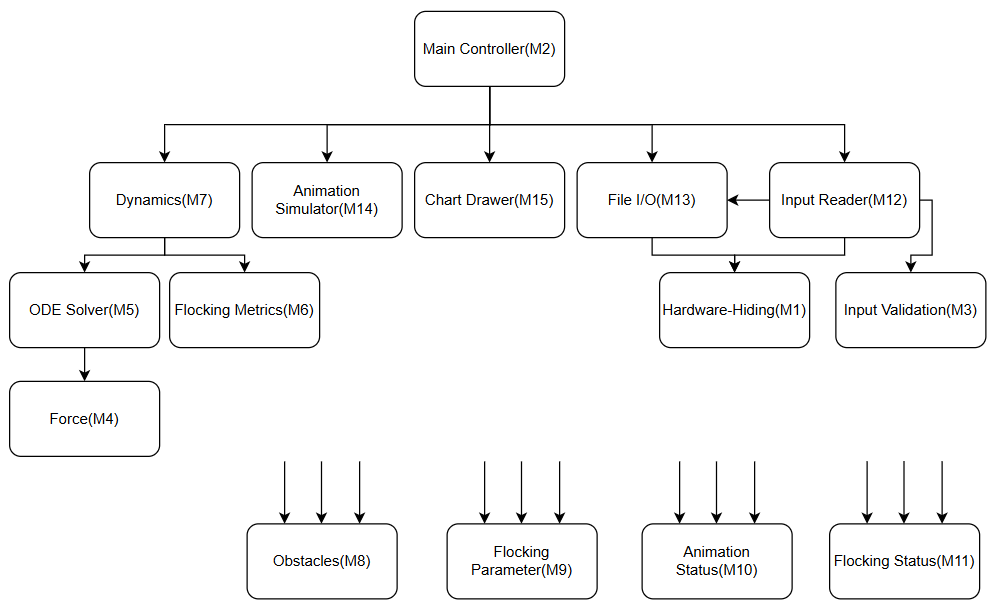
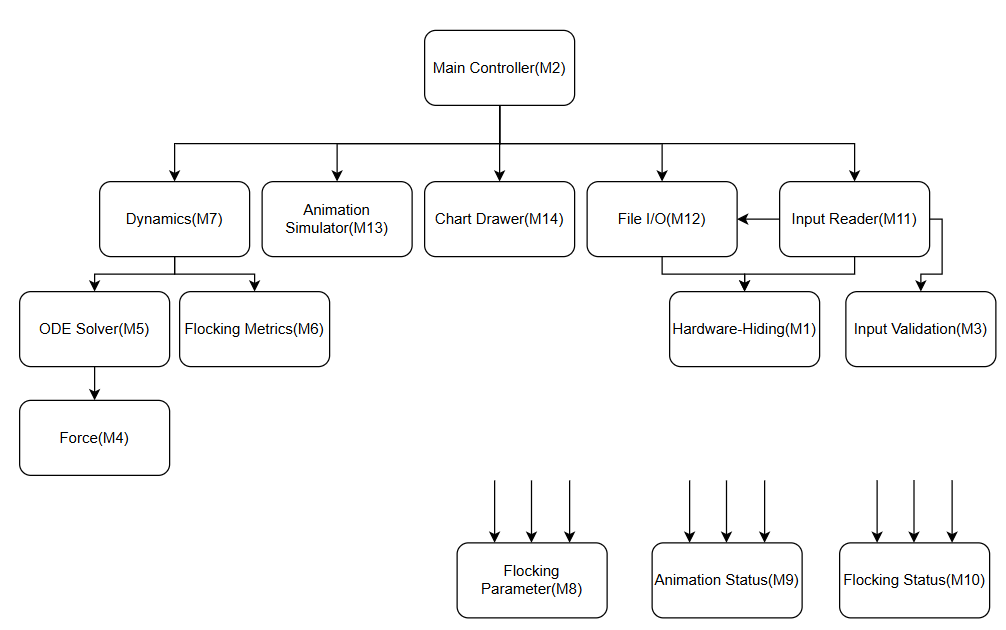
change MG by feedbacks

diff --git a/docs/Design/SoftArchitecture/MG.tex b/docs/Design/SoftArchitecture/MG.tex
@@ -158,14 +158,14 @@ change.
 \begin{description}
 \item[\refstepcounter{acnum} \actheacnum \label{ac3DEnv}:] The simulation 
 environment may be extended from two-dimensional to three-dimensional space. [SRS: LC1]
-\item[\refstepcounter{acnum} \actheacnum \label{acObsRadius}:] The influence 
-radius of obstacles may change. [SRS: LC3]
-\item[\refstepcounter{acnum} \actheacnum \label{acGoal}:] The positions 
-of goal locations may change or be configurable. [SRS: LC4]
-\item[\refstepcounter{acnum} \actheacnum \label{acStart}:] The initial 
-generation region of agents may change. [SRS: LC5]
+\item[\refstepcounter{acnum} \actheacnum \label{acInputRange}:] The acceptable 
+validation ranges for input parameters may be changed. [SRS: R2]
+\item[\refstepcounter{acnum} \actheacnum \label{acDefinedParam}:] The defined 
+flocking parameters may change. [SRS: LC3]
 \item[\refstepcounter{acnum} \actheacnum \label{acODEMethod}:] Additional 
 numerical integration methods may be introduced. [SRS: R3]
+\item[\refstepcounter{acnum} \actheacnum \label{acOutputMetrics}:] The metrics 
+exported to describe the flocking state may be changed or added. [SRS: R5]
 \end{description}
 
 \subsection{Unlikely Changes} \label{SecUchange}
@@ -204,7 +204,6 @@ actually be implemented.
 \item [\refstepcounter{mnum} \mthemnum \label{mODE}:] ODE Solver Module
 \item [\refstepcounter{mnum} \mthemnum \label{mFM}:] Flocking Metrics Module
 \item [\refstepcounter{mnum} \mthemnum \label{mDyna}:] Dynamics Module
-\item [\refstepcounter{mnum} \mthemnum \label{mObs}:] Obstacle Module
 \item [\refstepcounter{mnum} \mthemnum \label{mFP}:] Flocking Parameter Module
 \item [\refstepcounter{mnum} \mthemnum \label{mAS}:] Animation Status Module
 \item [\refstepcounter{mnum} \mthemnum \label{mFS}:] Flocking Status Module
@@ -369,16 +368,6 @@ point or a timeout occurs.
 \item[Type of Module:] Abstract Object
 \end{description}
 
-\subsubsection{Obstacle Module (\mref{mObs})}
-
-\begin{description}
-\item[Secrets:] The data structures used to store the parameters of 
-the obstacle.
-\item[Services:] Store the parameters of obstacle, including the center and radius.
-\item[Implemented By:] \progname{}
-\item[Type of Module:] Record
-\end{description}
-
 \subsubsection{Flocking Parameter Module (\mref{mFP})}
 
 \begin{description}
@@ -478,7 +467,7 @@ requirements and between the modules and the anticipated changes.
 \toprule
 \textbf{Req.} & \textbf{Modules}\\
 \midrule
-R1 & \mref{mInput}, \mref{mObs}, \mref{mFP}\\
+R1 & \mref{mInput}, \mref{mFP}\\
 R2 & \mref{mIV} \\
 R3 & \mref{mODE}, \mref{mDyna}\\
 R4 & \mref{mDyna}, \mref{mForce}, \mref{mAS}, \mref{mFile}\\
@@ -497,11 +486,11 @@ R7 & \mref{mChart}, \mref{mFile}\\
 \toprule
 \textbf{AC} & \textbf{Modules}\\
 \midrule
-\acref{ac3DEnv}     & \mref{mCC}, \mref{mAnima}\\
-\acref{acObsRadius} & \mref{mForce}\\
-\acref{acGoal}      & \mref{mDyna}\\
-\acref{acStart}     & \mref{mCC}\\
-\acref{acODEMethod} & \mref{mODE}, \mref{mDyna}, \mref{mIV}\\
+\acref{ac3DEnv}         & \mref{mCC}, \mref{mAnima}\\
+\acref{acInputRange}    & \mref{mIV}\\
+\acref{acDefinedParam}  & \mref{mForce}\\
+\acref{acODEMethod}     & \mref{mODE}\\
+\acref{acOutputMetrics} & \mref{mIV}\\
 \bottomrule
 \end{tabular}
 \caption{Trace Between Anticipated Changes and Modules}

diff --git a/docs/Design/SoftDetailedDes/MIS.tex b/docs/Design/SoftDetailedDes/MIS.tex
@@ -137,7 +137,6 @@ The following table is taken directly from the Module Guide document for this pr
 & ODE Solver Module\\
 & Flocking Metrics Module\\
 & Dynamic Module \\
-& Obstacles Module \\
 & Flocking Parameter Module \\
 & Animation Status Module \\
 & Flocking Status Module \\
@@ -437,7 +436,7 @@ N/A
 \texttt{CalAlignForce} & \texttt{i}: $\mathbb{R}$, \texttt{vs}: $\mathbb{R}^3$[] & $\mathbb{R}^3$ & - \\
 \texttt{CalCoheForce} & \texttt{i}: $\mathbb{R}$, \texttt{ps}: $\mathbb{R}^3$[] & $\mathbb{R}^3$ & - \\
 \texttt{CalSepaForce} & \texttt{i}: $\mathbb{R}$, \texttt{ps}: $\mathbb{R}^3$[] & $\mathbb{R}^3$ & - \\
-\texttt{CalObsAForce} & \texttt{p}: $\mathbb{R}^3$, \texttt{obs}: Obstacle[] & $\mathbb{R}^3$ & - \\
+\texttt{CalObsAForce} & \texttt{p}: $\mathbb{R}^3$, \texttt{obs}: FlockingParameter.Obs & $\mathbb{R}^3$ & - \\
 \texttt{CalGoalForce} & \texttt{p}: $\mathbb{R}^3$, \texttt{v}: $\mathbb{R}^3$, \texttt{goal}: $\mathbb{R}^3$ & $\mathbb{R}^3$ & - \\
 \hline
 \end{tabular}
@@ -704,32 +703,6 @@ specific method in ODESolver Module.
 
 ~\newpage
 
-\section{MIS of Obstacle Module} \label{mObs}
-
-\subsection{Module}
-
-Obstacle
-
-\subsection{Uses}
-
-N/A
-
-\subsection{Syntax}
-
-The class uses the default constructor provided by the language. All 
-attributes are publicly accessible.
-
-\subsection{Semantics}
-
-\subsubsection{State Variables}
-
-\begin{itemize}
-\item \texttt{p}: $\mathbb{R}^3$, the center of circle obstacle. 
-\item \texttt{r}: $\mathbb{R}$, the radius of circle obstacle. 
-\end{itemize}
-
-~\newpage
-
 \section{MIS of Flocking Parameter Module} \label{mFP}
 
 \subsection{Module}
@@ -744,6 +717,16 @@ N/A
 
 The class uses the default constructor provided by the language. All 
 attributes are publicly accessible.
+
+\subsubsection{Exported Types}
+
+\begin{itemize}
+\item \texttt{Obs}: the structure of obstacle.
+\begin{itemize}
+  \item \texttt{p}: $\mathbb{R}^3$, the center of circle obstacle.
+  \item \texttt{r}: $\mathbb{R}$, the radius of circle obstacle.
+\end{itemize}
+\end{itemize}
 
 \subsection{Semantics}
 

diff --git a/docs/SRS/SRS.tex b/docs/SRS/SRS.tex
@@ -1468,14 +1468,10 @@ This section lists the likely changes to be made to the software.
 \item[LC\refstepcounter{lcnum}\thelcnum\label{LC_ObsShapeChange}:]
 \aref{A_obsShape} - Obstacles may not be limited to circular shapes.
 
-\item[LC\refstepcounter{lcnum}\thelcnum\label{LC_InfluenceRadiusChange}:]
-\aref{A_obsInfluence} - The influence radius of obstacles may change.
-
-\item[LC\refstepcounter{lcnum}\thelcnum\label{LC_GoalChange}:]
-\aref{A_goalPosition} - The agents' goal positions may be different.
-
-\item[LC\refstepcounter{lcnum}\thelcnum\label{LC_StartAreaChange}:]
-\aref{A_startPosition} - The initial generation area of agents may change.
+\item[LC\refstepcounter{lcnum}\thelcnum\label{LC_FlockingParamChange}:]
+\aref{A_obsInfluence} - Environmental and behavioral simulation parameters(e.g., 
+goal positions, obstacle influence radius, initial generation area of agents) 
+may be changed.
 
 \end{itemize}
 
@@ -1540,9 +1536,7 @@ Rows represent items that trace to source items listed in columns.
 \iref{SemiImplicitEuler}         &X& & & & & & \\ \hline
 \iref{LC_EnvChange}              &X& & & & & & \\ \hline
 \lcref{LC_ObsShapeChange}        & & &X& & & & \\ \hline
-\lcref{LC_InfluenceRadiusChange} & & & &X& & & \\ \hline
-\lcref{LC_GoalChange}            & & & & &X& & \\ \hline
-\lcref{LC_StartAreaChange}       & & & & & &X& \\ \hline
+\lcref{LC_FlockingParamChange}   & & & &X&X&X& \\ \hline
 \lcref{LC_NoMeanMass}            & &X& & & & & \\ \hline
 \lcref{LC_agentHomogeneous}      & & & & & & &X\\
 \hline
